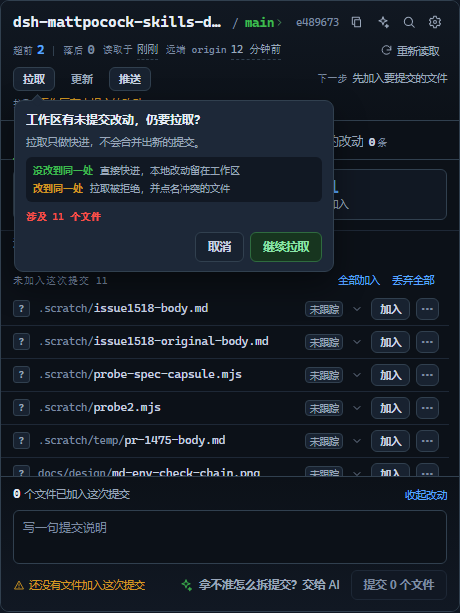
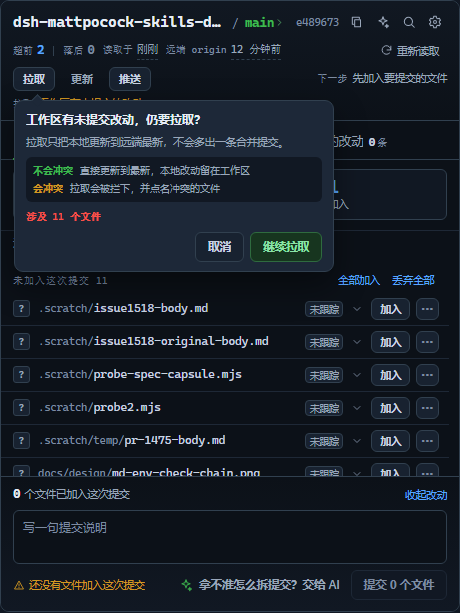
原型：讲解文案去掉快进，菜单条目文字改成左对齐

Changed region(s): [[0.0609, 0.217, 0.6087, 0.3409]]

diff --git a/docs/prototype/vc-redesign/app.js b/docs/prototype/vc-redesign/app.js
@@ -52,11 +52,11 @@
       detached: "\u6E38\u79BB\u5934\u6307\u9488",
       syncUnknown: "\u540C\u6B65\u72B6\u6001\u8BFB\u4E0D\u5230",
       confirmTitle: "\u5DE5\u4F5C\u533A\u6709\u672A\u63D0\u4EA4\u6539\u52A8\uFF0C\u4ECD\u8981\u62C9\u53D6\uFF1F",
-      confirmLead: "\u62C9\u53D6\u53EA\u505A\u5FEB\u8FDB\uFF0C\u4E0D\u4F1A\u5408\u5E76\u51FA\u65B0\u7684\u63D0\u4EA4\u3002",
-      /** 两条结果并排摆开，不拼进一句话里用分号连接：读者一眼能分清清什么时候成功、什么时候被拒绝。 */
+      confirmLead: "\u62C9\u53D6\u53EA\u628A\u672C\u5730\u66F4\u65B0\u5230\u8FDC\u7AEF\u6700\u65B0\uFF0C\u4E0D\u4F1A\u591A\u51FA\u4E00\u6761\u5408\u5E76\u63D0\u4EA4\u3002",
+      /** 两条结果并排摆开：标签直接写结论（不会冲突 / 会冲突），颜色只做辅助，读者不用猜绿和黄代表什么。 */
       confirmPoints: [
-        { tone: "ok", label: "\u6CA1\u6539\u5230\u540C\u4E00\u5904", text: "\u76F4\u63A5\u5FEB\u8FDB\uFF0C\u672C\u5730\u6539\u52A8\u7559\u5728\u5DE5\u4F5C\u533A" },
-        { tone: "warn", label: "\u6539\u5230\u540C\u4E00\u5904", text: "\u62C9\u53D6\u88AB\u62D2\u7EDD\uFF0C\u5E76\u70B9\u540D\u51B2\u7A81\u7684\u6587\u4EF6" }
+        { tone: "ok", label: "\u4E0D\u4F1A\u51B2\u7A81", text: "\u76F4\u63A5\u66F4\u65B0\u5230\u6700\u65B0\uFF0C\u672C\u5730\u6539\u52A8\u7559\u5728\u5DE5\u4F5C\u533A" },
+        { tone: "warn", label: "\u4F1A\u51B2\u7A81", text: "\u62C9\u53D6\u4F1A\u88AB\u62E6\u4E0B\uFF0C\u5E76\u70B9\u540D\u51B2\u7A81\u7684\u6587\u4EF6" }
       ],
       confirmFiles: (n) => `\u6D89\u53CA ${n} \u4E2A\u6587\u4EF6`,
       confirmContinue: "\u7EE7\u7EED\u62C9\u53D6",
@@ -335,7 +335,7 @@
       pushed: (n, upstream) => `\u63A8\u9001\u5B8C\u6210\uFF1A${n} \u7B14\u63D0\u4EA4\u5DF2\u5230\u8FBE ${upstream}\u3002`,
       nothingToPush: "\u8FDC\u7AEF\u5DF2\u662F\u6700\u65B0\uFF0C\u6CA1\u6709\u9700\u8981\u63A8\u9001\u7684\u63D0\u4EA4\u3002",
       pullUpToDate: "\u5DF2\u662F\u6700\u65B0\u72B6\u6001\u3002",
-      pullFastForward: "\u5DF2\u5FEB\u8FDB\u81F3\u8FDC\u7AEF\u6700\u65B0\u3002",
+      pullFastForward: "\u5DF2\u76F4\u63A5\u66F4\u65B0\u5230\u8FDC\u7AEF\u6700\u65B0\u3002",
       fetched: "\u66F4\u65B0\u5B8C\u6210\uFF1A\u8FDC\u7AEF\u4F9D\u636E\u5DF2\u5237\u65B0\u3002",
       reloaded: "\u5DF2\u91CD\u65B0\u8BFB\u53D6\u3002",
       aiWorktrees: "\u539F\u578B\u91CC AI \u4EA4\u63A5\u53EA\u505A\u63D0\u793A\u3002\u771F\u5B9E\u9875\u9762\u4F1A\u6253\u5F00\u672C\u673A DSH \u4F1A\u8BDD\uFF0C\u5E76\u5E26\u4E0A\u5F02\u5E38\u5DE5\u4F5C\u6811\u6E05\u5355\u3002",
@@ -3605,7 +3605,7 @@
         };
         return withResult(next, {
           tone: fastForward ? "ok" : "info",
-          text: fastForward ? "\u5DF2\u5FEB\u8FDB\u81F3\u8FDC\u7AEF\u6700\u65B0\u3002" : "\u5DF2\u662F\u6700\u65B0\u72B6\u6001\u3002",
+          text: fastForward ? "\u5DF2\u76F4\u63A5\u66F4\u65B0\u5230\u8FDC\u7AEF\u6700\u65B0\u3002" : "\u5DF2\u662F\u6700\u65B0\u72B6\u6001\u3002",
           detail: fastForward ? "\u672C\u5730\u63D0\u4EA4\u6CA1\u6709\u88AB\u6539\u5199\u3002\u8FDC\u7AEF\u65B0\u63D0\u4EA4\u5DF2\u7ECF\u63A5\u5230\u5F53\u524D\u5206\u652F\u540E\u9762\u3002" : "\u8FDC\u7AEF\u6CA1\u6709\u65B0\u7684\u63D0\u4EA4\u9700\u8981\u6574\u5408\u3002",
           source: "sync"
         });
@@ -5711,7 +5711,7 @@
     {
       "id": "6.2",
       "domain": "6",
-      "name": "\u53EA\u5141\u8BB8\u5FEB\u8FDB",
+      "name": "\u53EA\u63A5\u53D7\u76F4\u63A5\u66F4\u65B0",
       "command": "git merge `--ff-only`",
       "level": "\u5199",
       "placement": "\u76F4",
@@ -5724,7 +5724,7 @@
     {
       "id": "6.3",
       "domain": "6",
-      "name": "\u7981\u6B62\u5FEB\u8FDB",
+      "name": "\u603B\u662F\u751F\u6210\u5408\u5E76\u63D0\u4EA4",
       "command": "git merge `--no-ff`",
       "level": "\u5199",
       "placement": "\u6298",
@@ -6114,7 +6114,7 @@
     {
       "id": "8.8",
       "domain": "8",
-      "name": "\u53EA\u5141\u8BB8\u5FEB\u8FDB",
+      "name": "\u53EA\u63A5\u53D7\u76F4\u63A5\u66F4\u65B0",
       "command": "git pull `--ff-only`",
       "level": "\u5199",
       "placement": "\u76F4",
@@ -6848,7 +6848,7 @@
       "placement": "\u8BCA",
       "entry": "\u7BA1\u7406\u9875\u300C\u8BCA\u65AD\u300D\u4E0E\u63D0\u4EA4\u5386\u53F2\u641C\u7D22",
       "opens": "\u53EA\u8BFB\u8BCA\u65AD\u6E05\u5355",
-      "result": "\u9762\u677F\u5185\u90E8\u7528\uFF08\u5224\u65AD\u80FD\u4E0D\u80FD\u5FEB\u8FDB\uFF09",
+      "result": "\u9762\u677F\u5185\u90E8\u7528\uFF08\u5224\u65AD\u80FD\u4E0D\u80FD\u76F4\u63A5\u66F4\u65B0\uFF09",
       "target": "diagnostics",
       "readOnly": true
     },

diff --git a/docs/prototype/vc-redesign/src/data/copy.ts b/docs/prototype/vc-redesign/src/data/copy.ts
@@ -61,11 +61,11 @@ export const COPY = {
     detached: '游离头指针',
     syncUnknown: '同步状态读不到',
     confirmTitle: '工作区有未提交改动，仍要拉取？',
-    confirmLead: '拉取只做快进，不会合并出新的提交。',
-    /** 两条结果并排摆开，不拼进一句话里用分号连接：读者一眼能分清清什么时候成功、什么时候被拒绝。 */
+    confirmLead: '拉取只把本地更新到远端最新，不会多出一条合并提交。',
+    /** 两条结果并排摆开：标签直接写结论（不会冲突 / 会冲突），颜色只做辅助，读者不用猜绿和黄代表什么。 */
     confirmPoints: [
-      { tone: 'ok', label: '没改到同一处', text: '直接快进，本地改动留在工作区' },
-      { tone: 'warn', label: '改到同一处', text: '拉取被拒绝，并点名冲突的文件' },
+      { tone: 'ok', label: '不会冲突', text: '直接更新到最新，本地改动留在工作区' },
+      { tone: 'warn', label: '会冲突', text: '拉取会被拦下，并点名冲突的文件' },
     ] as ReadonlyArray<{ tone: 'ok' | 'warn'; label: string; text: string }>,
     confirmFiles: (n: number): string => `涉及 ${n} 个文件`,
     confirmContinue: '继续拉取',
@@ -344,7 +344,7 @@ export const COPY = {
     pushed: (n: number, upstream: string): string => `推送完成：${n} 笔提交已到达 ${upstream}。`,
     nothingToPush: '远端已是最新，没有需要推送的提交。',
     pullUpToDate: '已是最新状态。',
-    pullFastForward: '已快进至远端最新。',
+    pullFastForward: '已直接更新到远端最新。',
     fetched: '更新完成：远端依据已刷新。',
     reloaded: '已重新读取。',
     aiWorktrees: '原型里 AI 交接只做提示。真实页面会打开本机 DSH 会话，并带上异常工作树清单。',

diff --git a/docs/prototype/vc-redesign/src/data/capabilities.generated.ts b/docs/prototype/vc-redesign/src/data/capabilities.generated.ts
@@ -829,7 +829,7 @@ export const CAPABILITIES: Capability[] = [
   {
     "id": "6.2",
     "domain": "6",
-    "name": "只允许快进",
+    "name": "只接受直接更新",
     "command": "git merge `--ff-only`",
     "level": "写",
     "placement": "直",
@@ -842,7 +842,7 @@ export const CAPABILITIES: Capability[] = [
   {
     "id": "6.3",
     "domain": "6",
-    "name": "禁止快进",
+    "name": "总是生成合并提交",
     "command": "git merge `--no-ff`",
     "level": "写",
     "placement": "折",
@@ -1232,7 +1232,7 @@ export const CAPABILITIES: Capability[] = [
   {
     "id": "8.8",
     "domain": "8",
-    "name": "只允许快进",
+    "name": "只接受直接更新",
     "command": "git pull `--ff-only`",
     "level": "写",
     "placement": "直",
@@ -1966,7 +1966,7 @@ export const CAPABILITIES: Capability[] = [
     "placement": "诊",
     "entry": "管理页「诊断」与提交历史搜索",
     "opens": "只读诊断清单",
-    "result": "面板内部用（判断能不能快进）",
+    "result": "面板内部用（判断能不能直接更新）",
     "target": "diagnostics",
     "readOnly": true
   },

diff --git a/docs/prototype/vc-redesign/tools/capture-capabilities.ts b/docs/prototype/vc-redesign/tools/capture-capabilities.ts
@@ -85,6 +85,9 @@ function stripLink(text: string): string {
  * 否则「暂存区」会先被「暂存」换掉半截，剩下的「区」没处安放。
  */
 const UI_WORDING: Array<[string, string]> = [
+  ['只允许快进', '只接受直接更新'],
+  ['禁止快进', '总是生成合并提交'],
+  ['判断能不能快进', '判断能不能直接更新'],
   ['撤销上一条提交、改动回暂存区', '撤销上一条提交、改动回到「已加入这次提交」'],
   ['撤销提交并取消暂存', '撤销提交并把改动移出这次提交'],
   ['提交已暂存内容', '提交已加入这次提交的内容'],

diff --git a/docs/prototype/vc-redesign/index.html b/docs/prototype/vc-redesign/index.html
@@ -4,7 +4,7 @@
   <meta charset="utf-8">
   <meta name="viewport" content="width=device-width, initial-scale=1">
   <title>版本管理页重构原型</title>
-  <link rel="stylesheet" href="./styles/app.css?v=20261031e">
+  <link rel="stylesheet" href="./styles/app.css?v=20261031f">
 </head>
 <body>
   <!--
@@ -13,7 +13,7 @@
     想改界面请改 src/ 下的 TypeScript 源码，然后重新运行构建。
   -->
   <div id="app"></div>
-  <script src="./app.js?v=20261031e"></script>
+  <script src="./app.js?v=20261031f"></script>
 </body>
 </html>
 

diff --git a/docs/prototype/vc-redesign/src/domain/session.ts b/docs/prototype/vc-redesign/src/domain/session.ts
@@ -310,7 +310,7 @@ function finishBusy(state: SessionState, op: OpName, nowMs: number): SessionStat
       }
       return withResult(next, {
         tone: fastForward ? 'ok' : 'info',
-        text: fastForward ? '已快进至远端最新。' : '已是最新状态。',
+        text: fastForward ? '已直接更新到远端最新。' : '已是最新状态。',
         detail: fastForward ? '本地提交没有被改写。远端新提交已经接到当前分支后面。' : '远端没有新的提交需要整合。',
         source: 'sync',
       })

diff --git a/docs/prototype/vc-redesign/styles/app.css b/docs/prototype/vc-redesign/styles/app.css
@@ -1697,7 +1697,8 @@ h1, h2, h3, p, dl, dd, dt { margin: 0; }
   font: inherit;
   font-size: 10.5px;
   line-height: 1.5;
-  text-align: right;
+  /* 菜单框整体贴行尾右对齐，但条目文字左对齐：每行长短不同时左边缘成一条线，读者从同一个起点读。 */
+  text-align: left;
   padding: 4px 9px;
   border-radius: 6px;
   cursor: pointer;

diff --git a/docs/prototype/vc-redesign/README.md b/docs/prototype/vc-redesign/README.md
@@ -285,9 +285,9 @@ docs/prototype/vc-redesign/
 | `screenshots/63-changes-300.png` | 300 宽改动视图，同一组动作在窄档仍靠右且不换行 |
 | `screenshots/64-stash-460.png` | 当前布局的「收起的改动」视图，三条演示记录：放回工作区、放回并删掉记录、丢弃记录 |
 | `screenshots/65-changes-light-460.png` | 浅色改动视图，三张统计卡与单行提交区 |
-| `screenshots/66-pull-confirm-460.png` | 拉取确认气泡：两条结果并排说明，「涉及 11 个文件」用危险色 |
-| `screenshots/67-row-menu-460.png` | 文件行的更多菜单，收窄后贴行尾右对齐 |
-| `screenshots/68-commit-menu-460.png` | 提交行的更多菜单，同样贴行尾右对齐 |
+| `screenshots/66-pull-confirm-460.png` | 拉取确认气泡：两条结论并排写开（不会冲突 / 会冲突），「涉及 11 个文件」用危险色 |
+| `screenshots/67-row-menu-460.png` | 文件行的更多菜单，收窄后贴行尾，条目文字左对齐 |
+| `screenshots/68-commit-menu-460.png` | 提交行的更多菜单，同样贴行尾，条目文字左对齐 |
 
 ## 和真实代码的关系
 
@@ -309,7 +309,8 @@ docs/prototype/vc-redesign/
 - 改动页顶部用三张统计卡说清「几个文件冲突、几个已加入这次提交、几个未加入」，数字用红/绿/蓝区分，整张卡就是筛选开关；同一份读数的说法与提交历史、分支浮层保持一致。
 - 同步读数写成并排的两个短读数「超前 2 · 落后 0」，不再用彩色胶囊；0 也照写出来，数字位置不会因为有没有落后而跳。
 - 提交区底部压成一行：左边是禁用原因或提交提示，中间是「交给 AI」入口，右边是提交按钮；不再让两段文字各自占一行。
-- 行内菜单按内容宽度收窄并贴行尾右对齐，菜单项文字也右对齐；确认卡里「涉及 N 个文件」用危险色，不可逆动作看一眼就知道分量。
+- 行内菜单按内容宽度收窄并贴行尾；条目文字左对齐，长短不一的行从同一条左边缘读，视线不用横跳。确认卡里「涉及 N 个文件」用危险色，不可逆动作看一眼就知道分量。
+- 确认卡的两条结果各自起一个结论式小标题（不会冲突 / 会冲突），颜色只是辅助；读者不用先猜绿和黄代表什么。拉取说明里也不出现「快进」，直接说「把本地更新到远端最新，不会多出一条合并提交」。
 - 界面文案不用分号断句：一句一个句号，长解释拆成两条并排的短句，读者不用自己断句。
 - 页签上的数字带单位，并且每个视图只统计自己那件事：改动是文件数，提交历史是已加载条数，工作树是棵数，收起的改动是条数。
 - 提交历史与提交详情用整页替换加明确的返回，不做左右两栏：面板最窄 300，两栏会把主题与路径截断。
